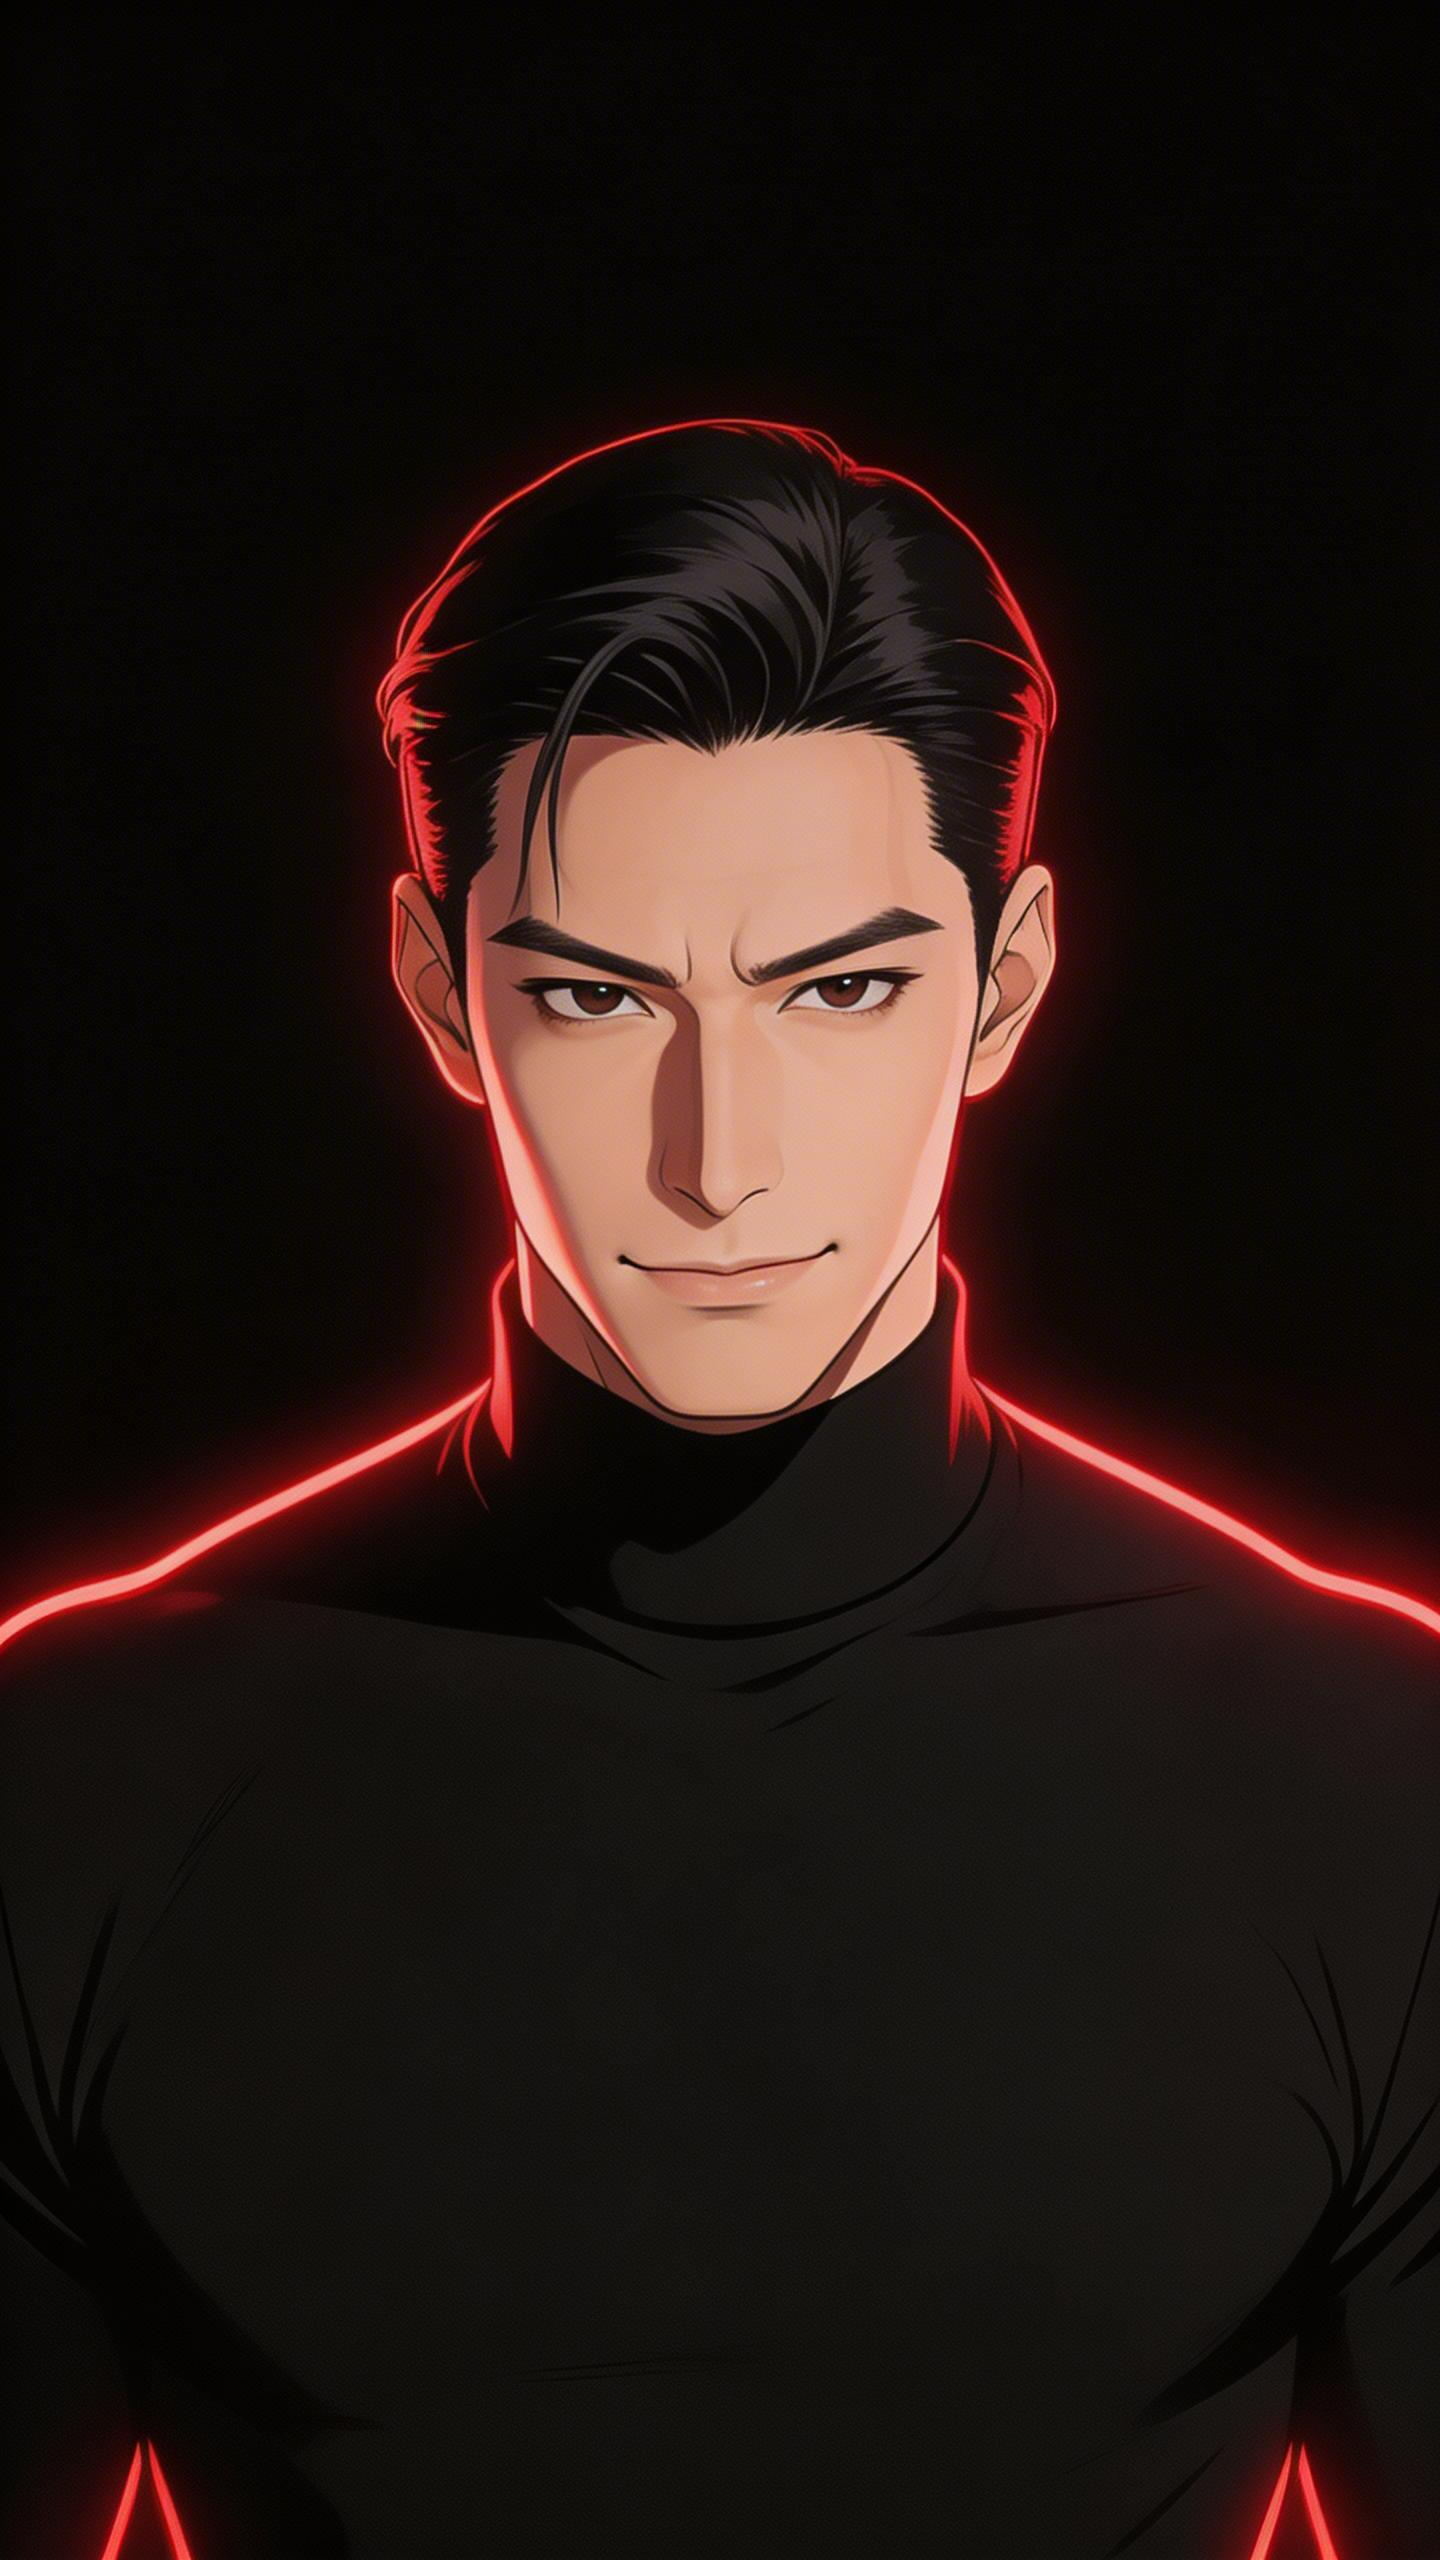
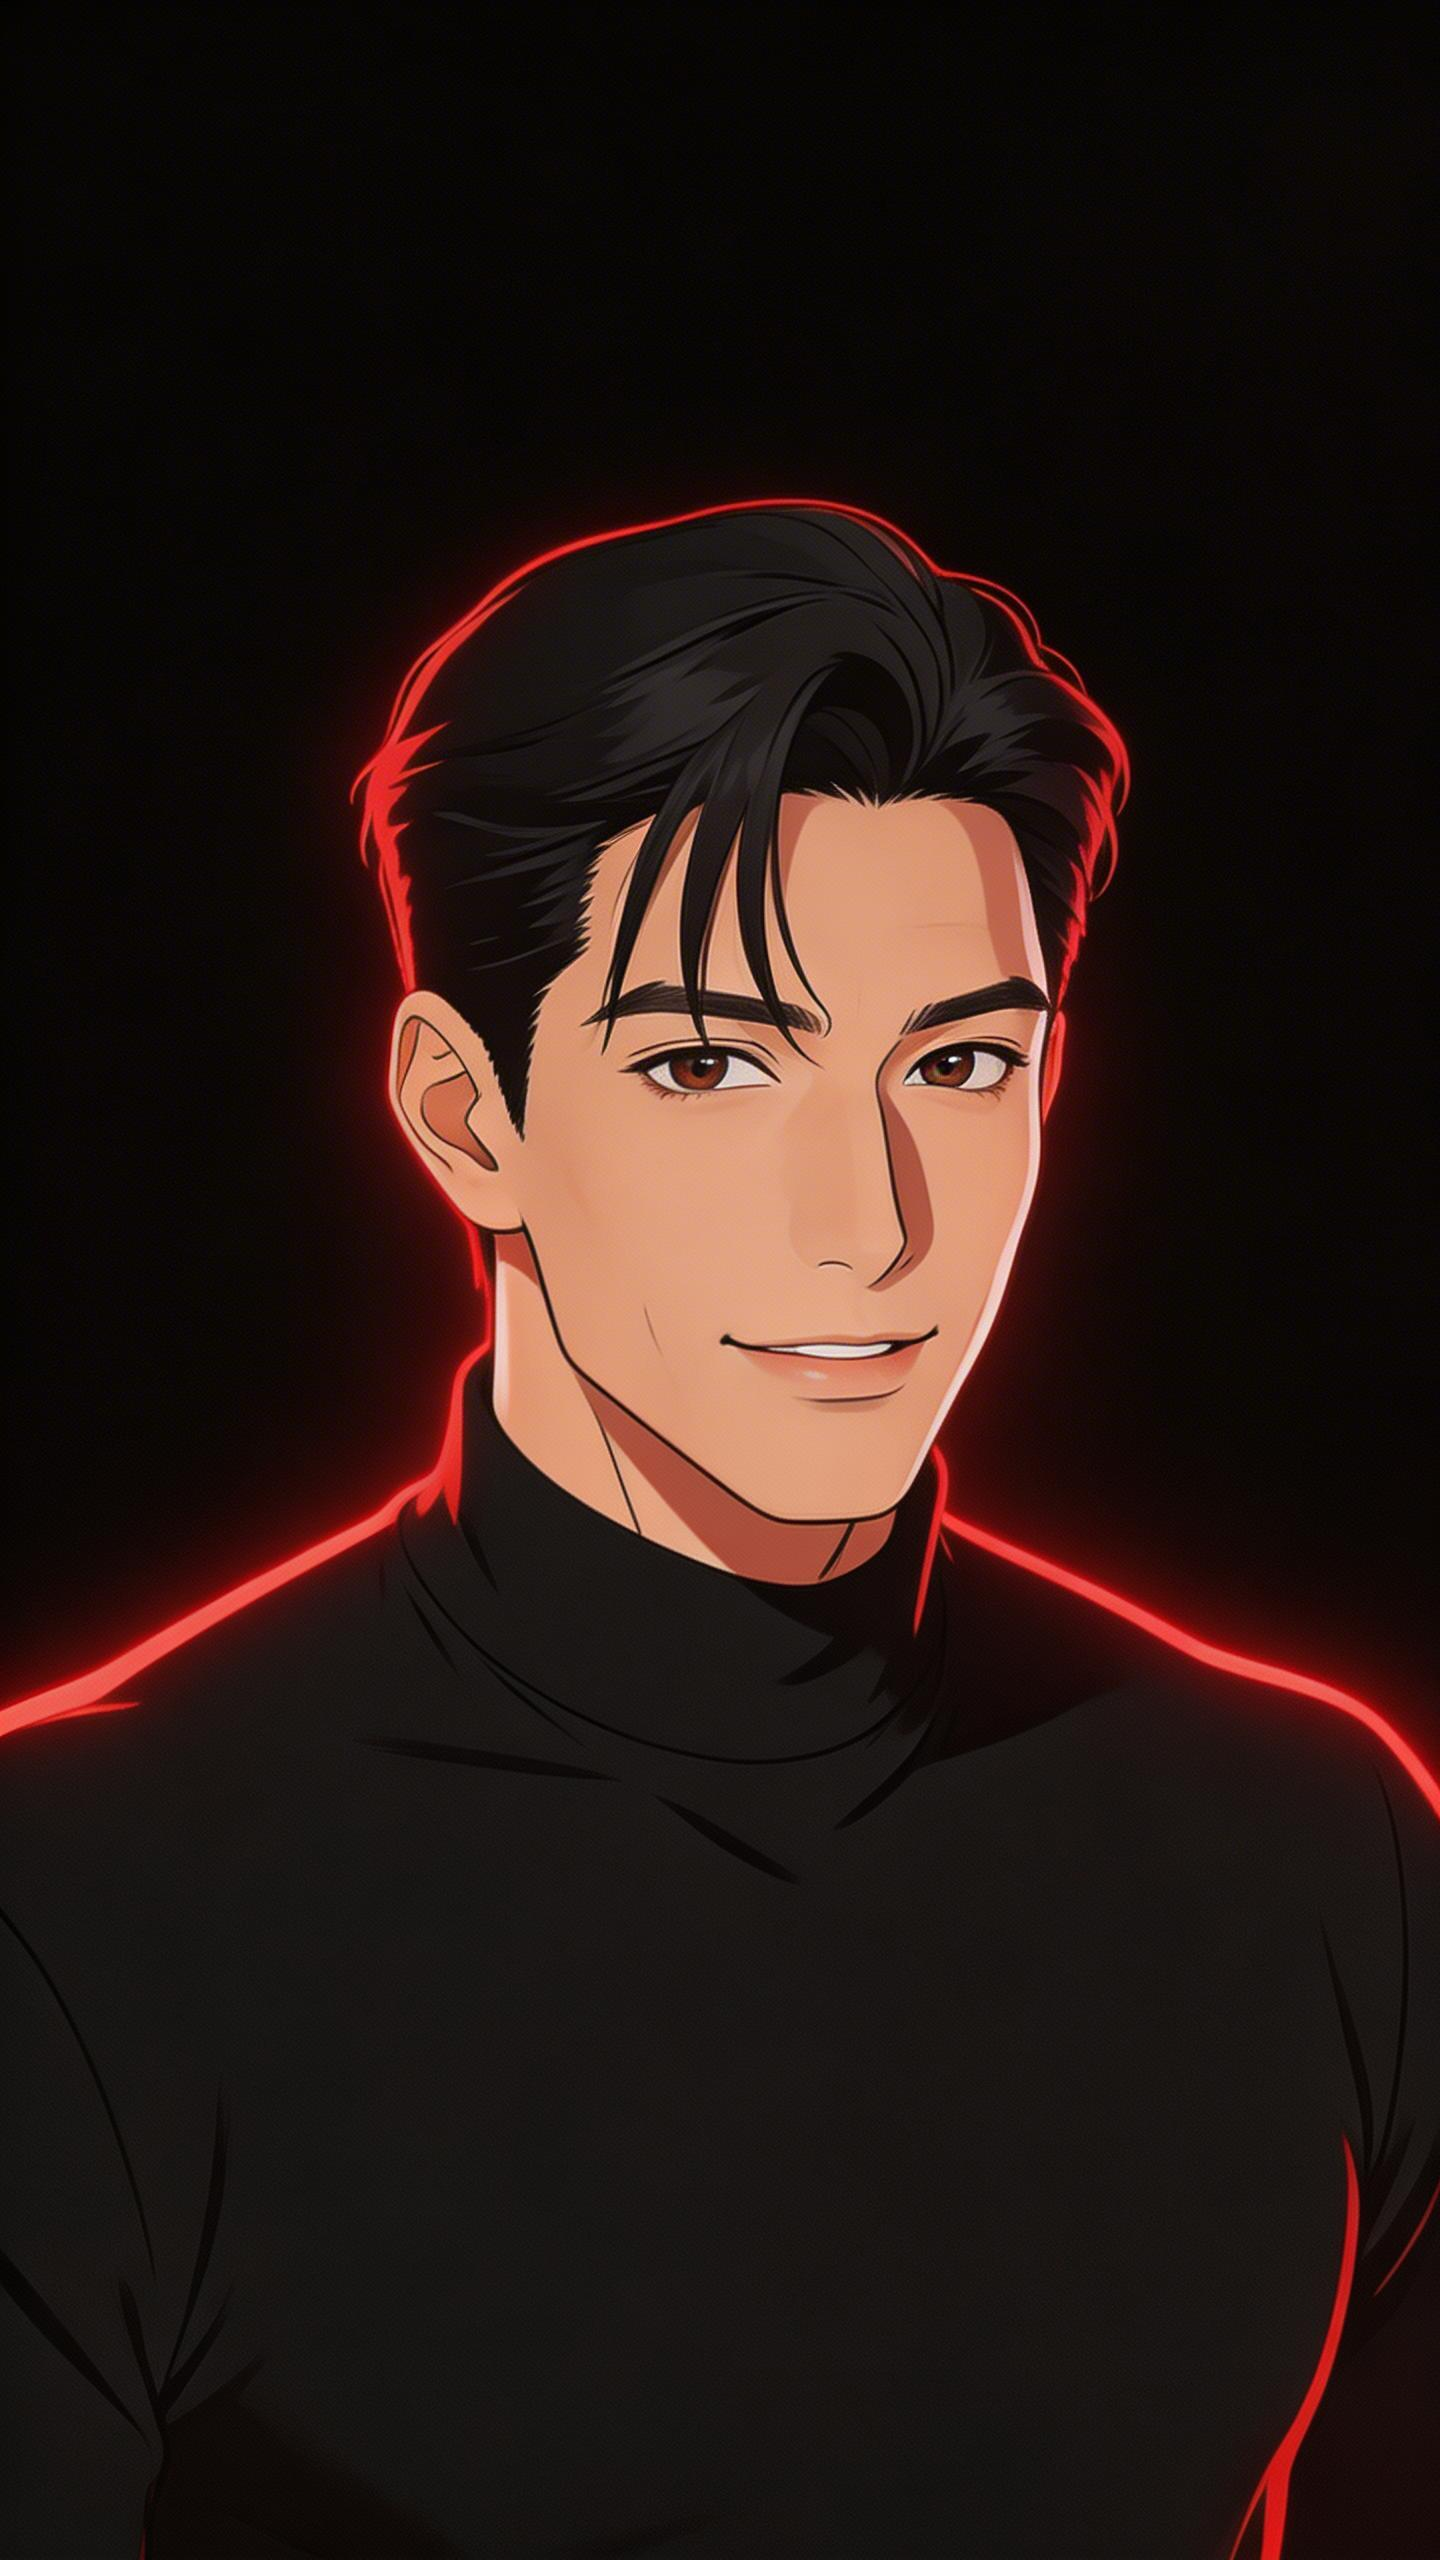
art: 程志峰立绘v3——温和自信微笑，更亲和的表情

Changed region(s): [[0.0, 0.1562, 1.0, 0.7188], [0.8438, 0.8438, 1.0, 1.0], [0.0312, 0.9375, 0.1562, 1.0]]

diff --git a/src/lib/data.ts b/src/lib/data.ts
@@ -211,7 +211,7 @@ const LI_ZHIXUAN: Character = {
 const CHENG_ZHIFENG: Character = {
   id: 'chengzhifeng',
   name: '程志峰',
-  portrait: '/characters/chengzhifeng.jpg?v=2',
+  portrait: '/characters/chengzhifeng.jpg?v=3',
   gender: 'male',
   age: 35,
   title: '电视台副台长',
